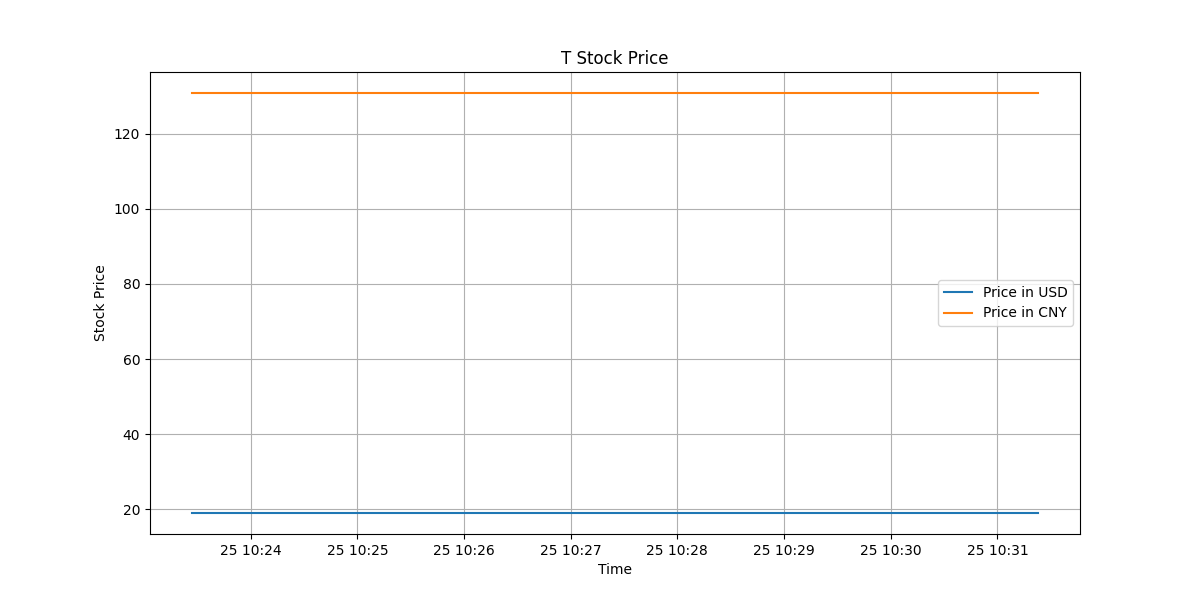
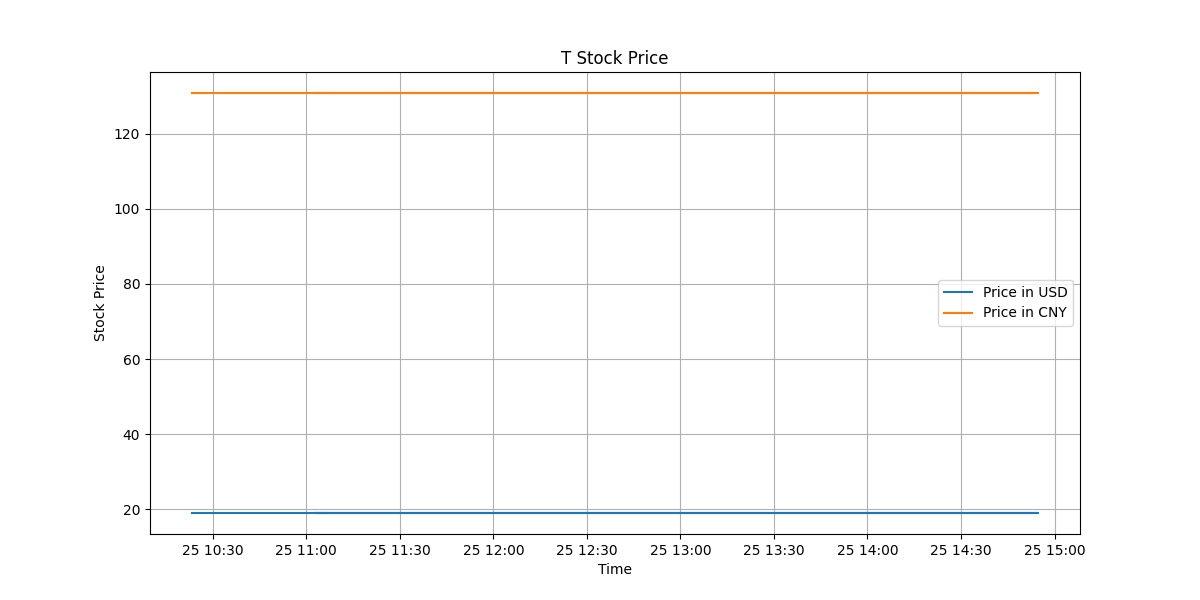
fix png

Changed region(s): [[0.1542, 0.9, 0.5858, 0.93], [0.7092, 0.9, 0.925, 0.93], [0.6167, 0.9, 0.6783, 0.93]]

diff --git a/main.py b/main.py
@@ -4,6 +4,7 @@ from forex_python.converter import CurrencyRates
 import urllib
 import datetime
 import csv
+import generate_graph
 
 # Define the Alpha Vantage API URL
 ALPHAVANTAGE_API_URL = "https://www.alphavantage.co/query"
@@ -72,6 +73,11 @@ def main():
         # Store the stock data to the CSV file
         current_time = datetime.datetime.now()
         save_stock_data_to_csv(current_time, stock_price_usd, stock_price_cny)
+        
+    
+
 
 if __name__ == "__main__":
     main()
+    generate_graph.main()
+
